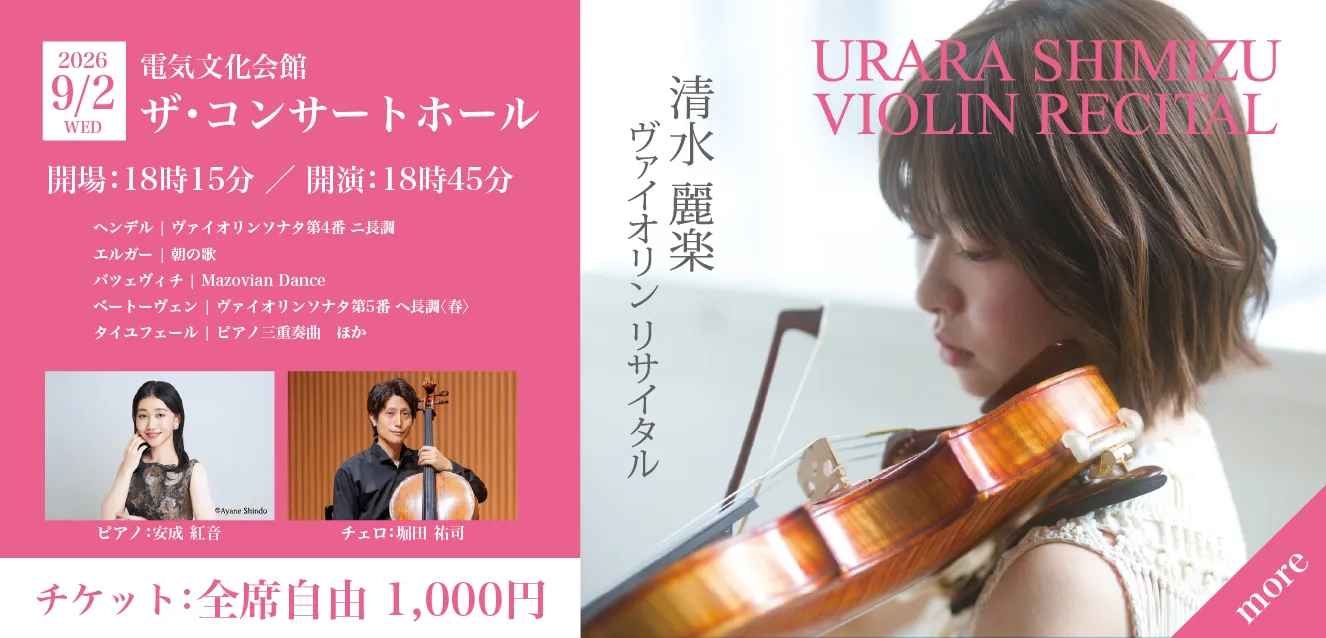
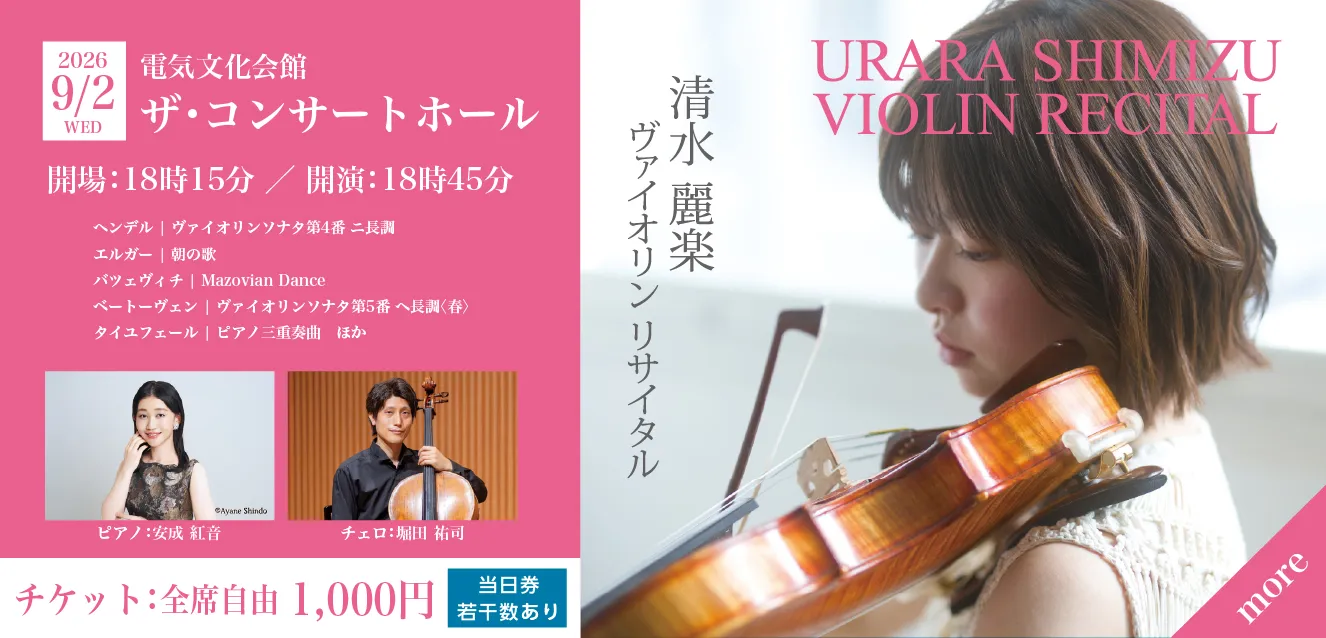
ソロコンサート：当日券の告知を掲載、キービジュアル画像を差し替え

diff --git a/concert.html b/concert.html
@@ -208,10 +208,11 @@ height="0" width="0" style="display:none;visibility:hidden"></iframe></noscript>
               <span class="jp">清水麗楽</span>
               <span class="jp_s" style="margin-top: -20px;">ヴァイオリンリサイタル</span>
             </h2>
-            <!-- <p class="lead u-text-color-caution">
-              コンサートの当日券を若干数ですが会場受付にて12/1(月)18時から先着順で販売いたします。当日券についての詳細は下記までお問い合わせください。<br>
+            <p class="lead u-text-color-caution">
+              当日券を若干数ですが会場受付にて9/2(水)18時15分から先着順で販売いたします。<br>
+              当日券についての詳細は下記までお問い合わせください。<br>
               TEL：052-533-6708
-            </p> -->
+            </p>
             <table class="c-sptable">
               <tbody class="c-sptable__tbody">
                 <tr class="c-sptable__tr">
